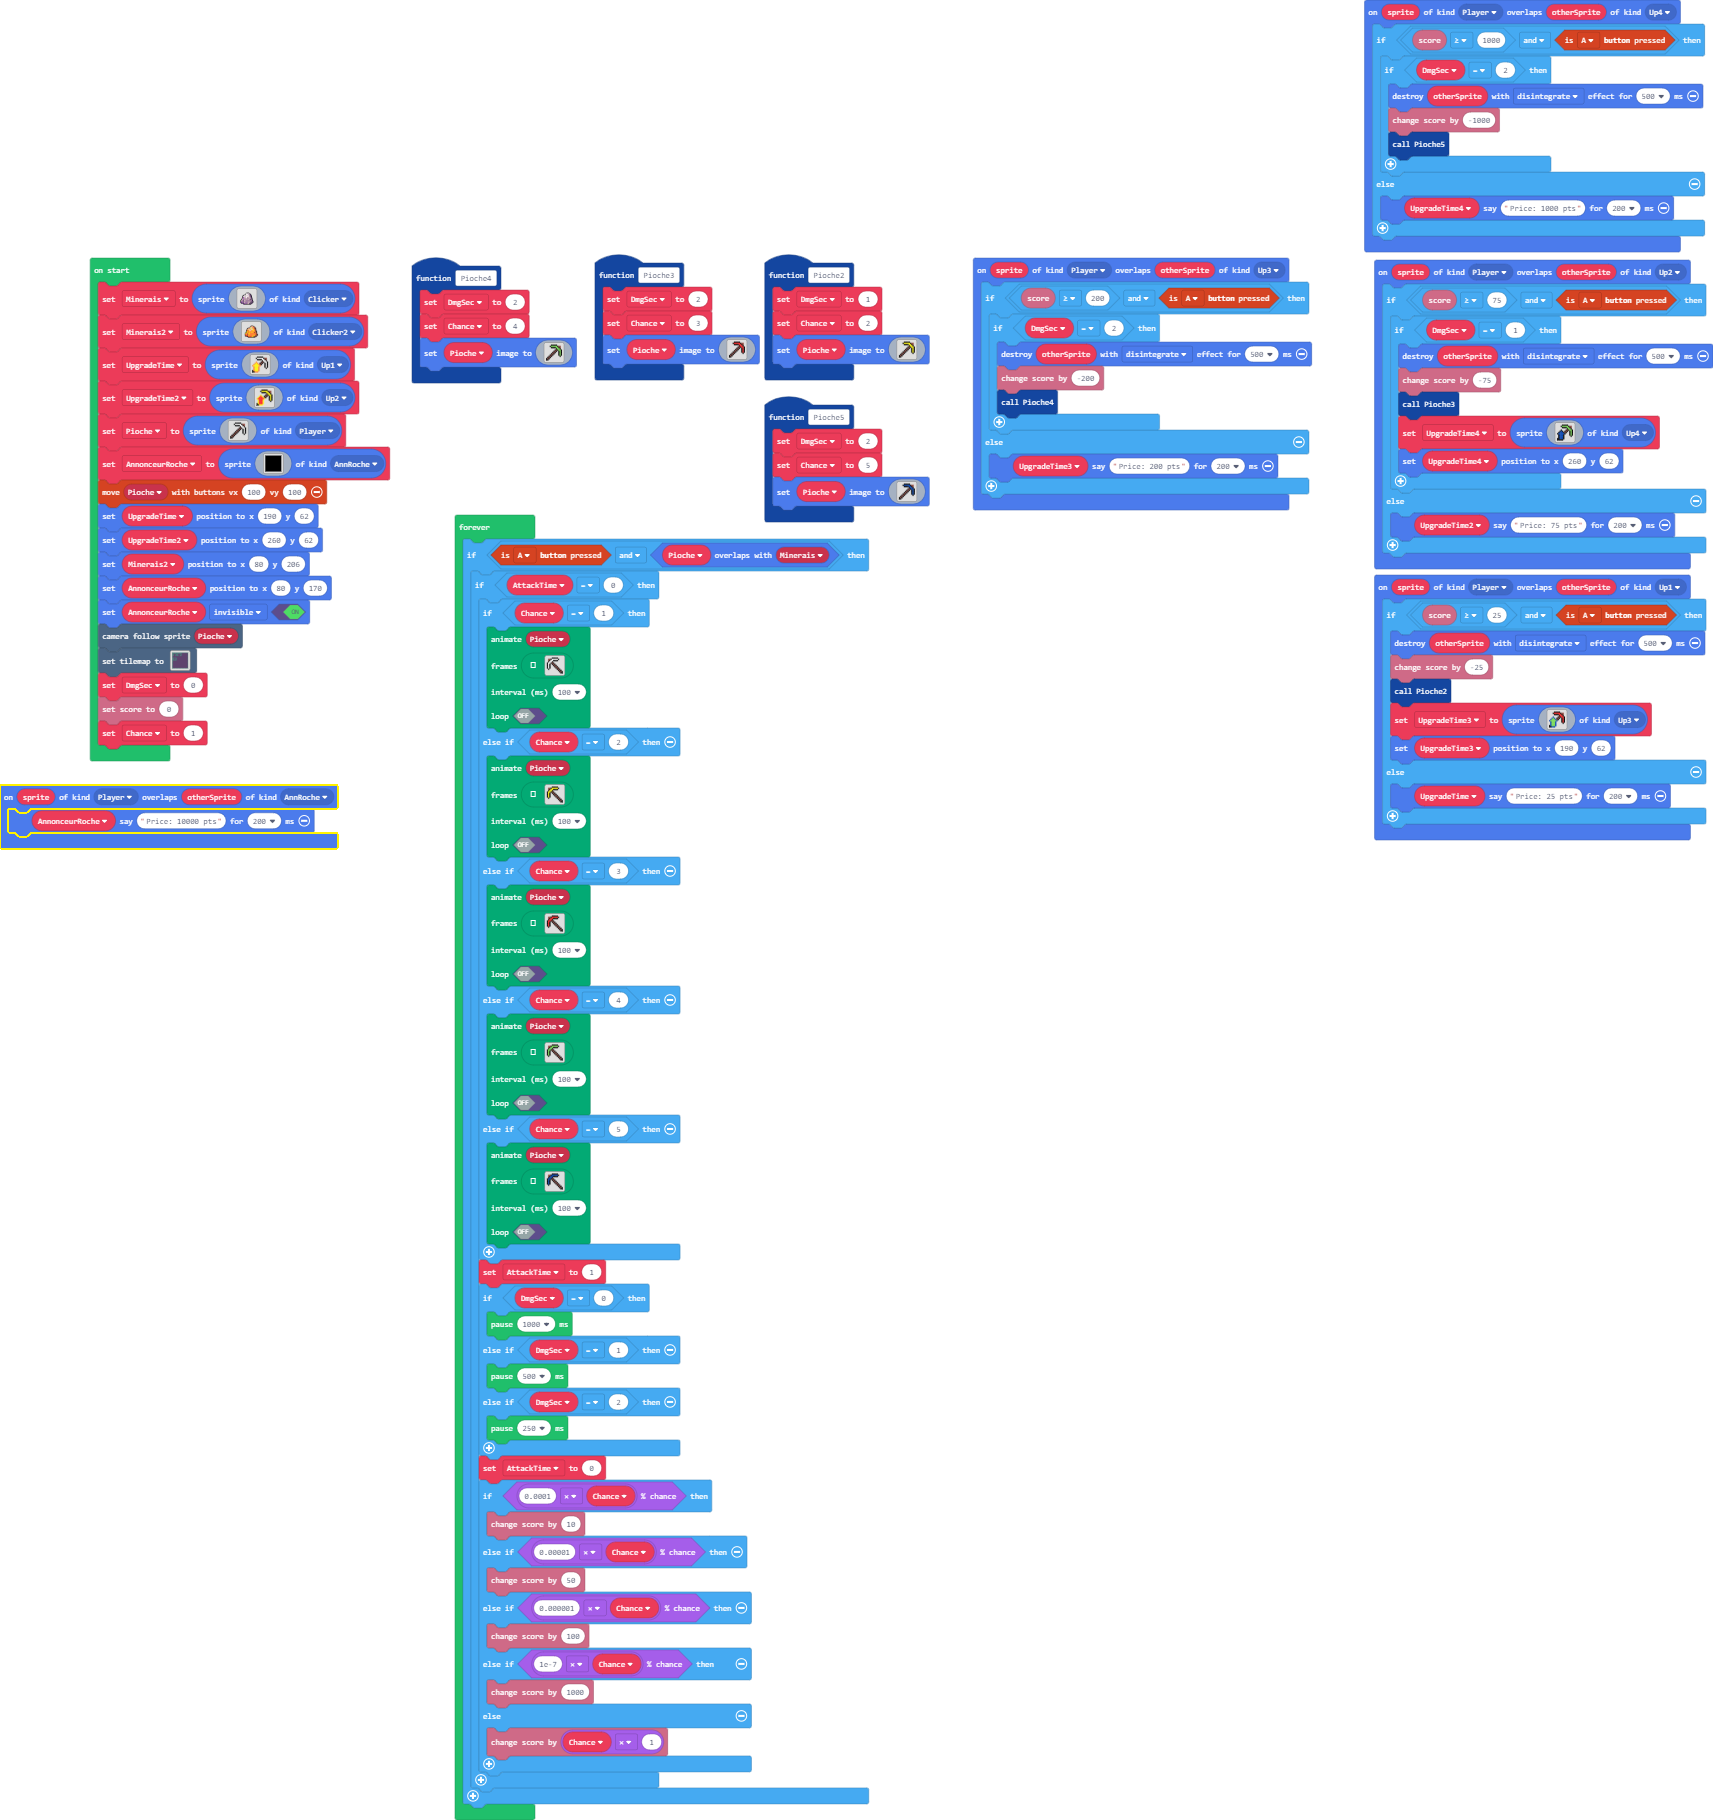
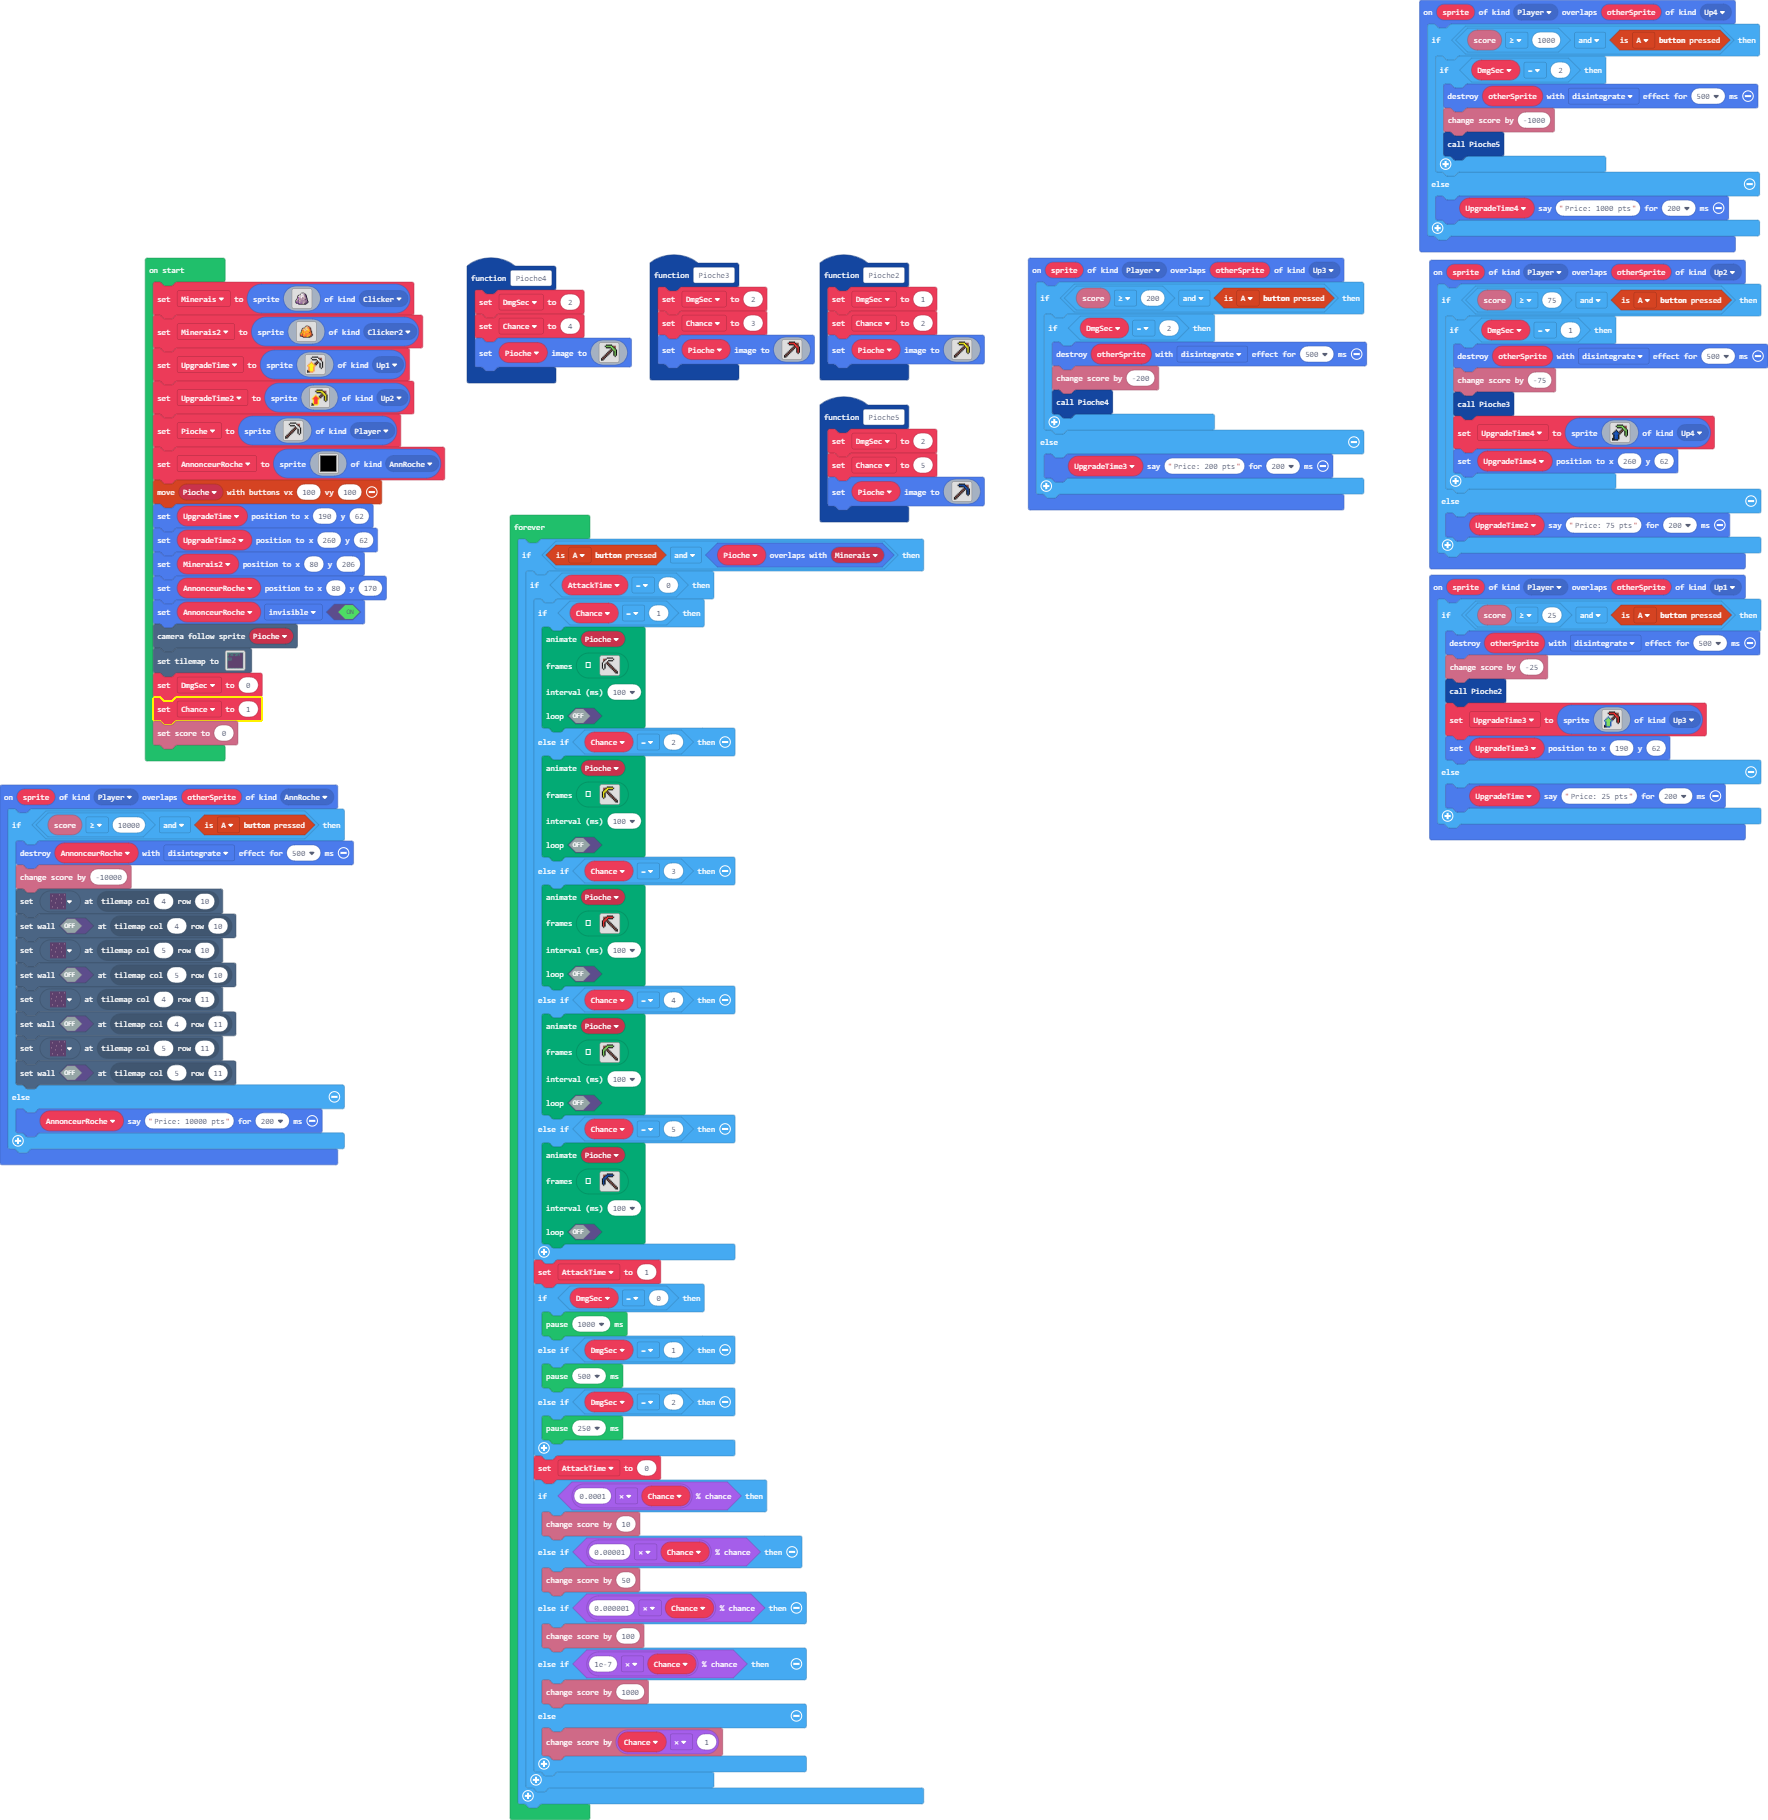
Update main.blocks, main.ts

Changed region(s): [[0.0, 0.0, 0.9901, 1.0], [0.495, 0.9846, 0.526, 1.0]]

diff --git a/main.ts b/main.ts
@@ -135,7 +135,20 @@ f f f f f . . . . . . . .
     }
 })
 sprites.onOverlap(SpriteKind.Player, SpriteKind.AnnRoche, function (sprite, otherSprite) {
-    AnnonceurRoche.say("Price: 10000 pts", 200)
+    if (info.score() >= 10000 && controller.A.isPressed()) {
+        AnnonceurRoche.destroy(effects.disintegrate, 500)
+        info.changeScoreBy(-10000)
+        tiles.setTileAt(tiles.getTileLocation(4, 10), sprites.dungeon.darkGroundCenter)
+        tiles.setWallAt(tiles.getTileLocation(4, 10), false)
+        tiles.setTileAt(tiles.getTileLocation(5, 10), sprites.dungeon.darkGroundCenter)
+        tiles.setWallAt(tiles.getTileLocation(5, 10), false)
+        tiles.setTileAt(tiles.getTileLocation(4, 11), sprites.dungeon.darkGroundCenter)
+        tiles.setWallAt(tiles.getTileLocation(4, 11), false)
+        tiles.setTileAt(tiles.getTileLocation(5, 11), sprites.dungeon.darkGroundCenter)
+        tiles.setWallAt(tiles.getTileLocation(5, 11), false)
+    } else {
+        AnnonceurRoche.say("Price: 10000 pts", 200)
+    }
 })
 sprites.onOverlap(SpriteKind.Player, SpriteKind.Up1, function (sprite, otherSprite) {
     if (info.score() >= 25 && controller.A.isPressed()) {
@@ -345,15 +358,15 @@ AnnonceurRoche.setPosition(80, 170)
 AnnonceurRoche.setFlag(SpriteFlag.Invisible, true)
 scene.cameraFollowSprite(Pioche)
 tiles.setTilemap(tiles.createTilemap(
[2 lines of base64/hex data omitted]
             img`
 2 2 2 2 2 2 2 2 2 2 2 2 2 2 2 2 2 2 2 2 2 2 2 2 2 2 2 2 2 2 2 2 
-2 2 2 2 2 2 2 2 2 2 2 2 2 2 2 2 2 2 2 . . . . . . . . . . . . 2 
-2 2 2 2 2 2 2 2 2 2 2 2 2 2 2 2 2 2 2 . . . . . . . . . . . . 2 
-2 2 2 . . . . 2 2 2 2 . . . . . . 2 2 . . . . . . . . . . . . 2 
-2 2 2 . . . . 2 2 2 2 . . . . . . 2 2 . . . . . . . . . . . . 2 
-2 2 2 2 . . 2 2 2 2 2 2 2 . . 2 2 2 2 . . . . . . . . . . . . 2 
-2 2 2 2 . . 2 2 2 2 2 2 2 . . 2 2 2 2 . . . . . . . . . . . . 2 
+2 2 2 2 2 2 2 2 2 2 2 2 2 2 2 2 2 2 2 2 2 2 2 2 2 . . . . . . 2 
+2 2 2 2 2 2 2 2 2 2 2 2 2 2 2 2 2 2 2 2 2 2 2 2 2 . . . . . . 2 
+2 2 2 . . . . 2 2 2 2 . . . . . . 2 2 2 2 . . 2 2 . . . . . . 2 
+2 2 2 . . . . 2 2 2 2 . . . . . . 2 2 2 2 . . 2 2 . . . . . . 2 
+2 2 2 2 . . 2 2 2 2 2 2 2 . . 2 2 2 2 2 2 . . 2 2 . . . . . . 2 
+2 2 2 2 . . 2 2 2 2 2 2 2 . . 2 2 2 2 2 2 . . 2 2 . . . . . . 2 
 2 . . . . . . . . . . . . . . . . . . . . . . . . . . . . . . 2 
 2 . . . . . . . . . . . . . . . . . . . . . . . . . . . . . . 2 
 2 . . . . . . . . . . . . . . . . . . . . . . . . . . . . . . 2 
@@ -384,8 +397,8 @@ tiles.setTilemap(tiles.createTilemap(
             TileScale.Sixteen
         ))
 DmgSec = 0
-info.setScore(0)
 Chance = 1
+info.setScore(0)
 forever(function () {
     if (controller.A.isPressed() && Pioche.overlapsWith(Minerais)) {
         if (AttackTime == 0) {
